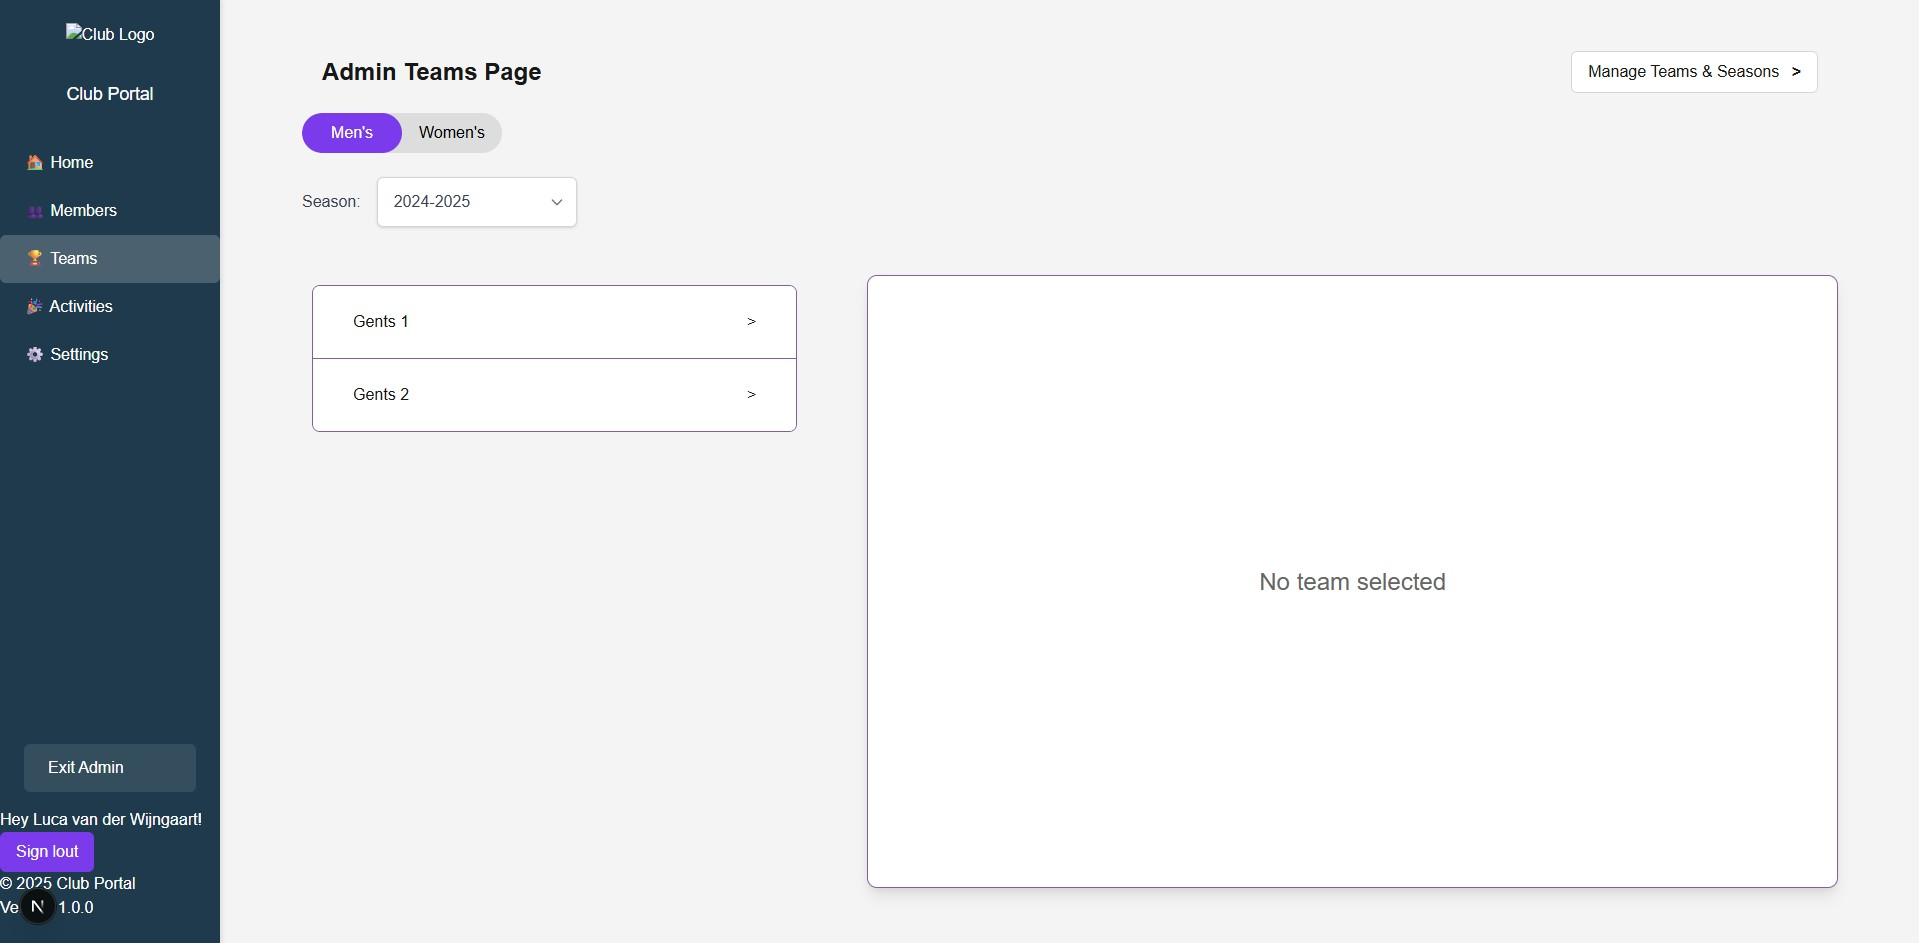
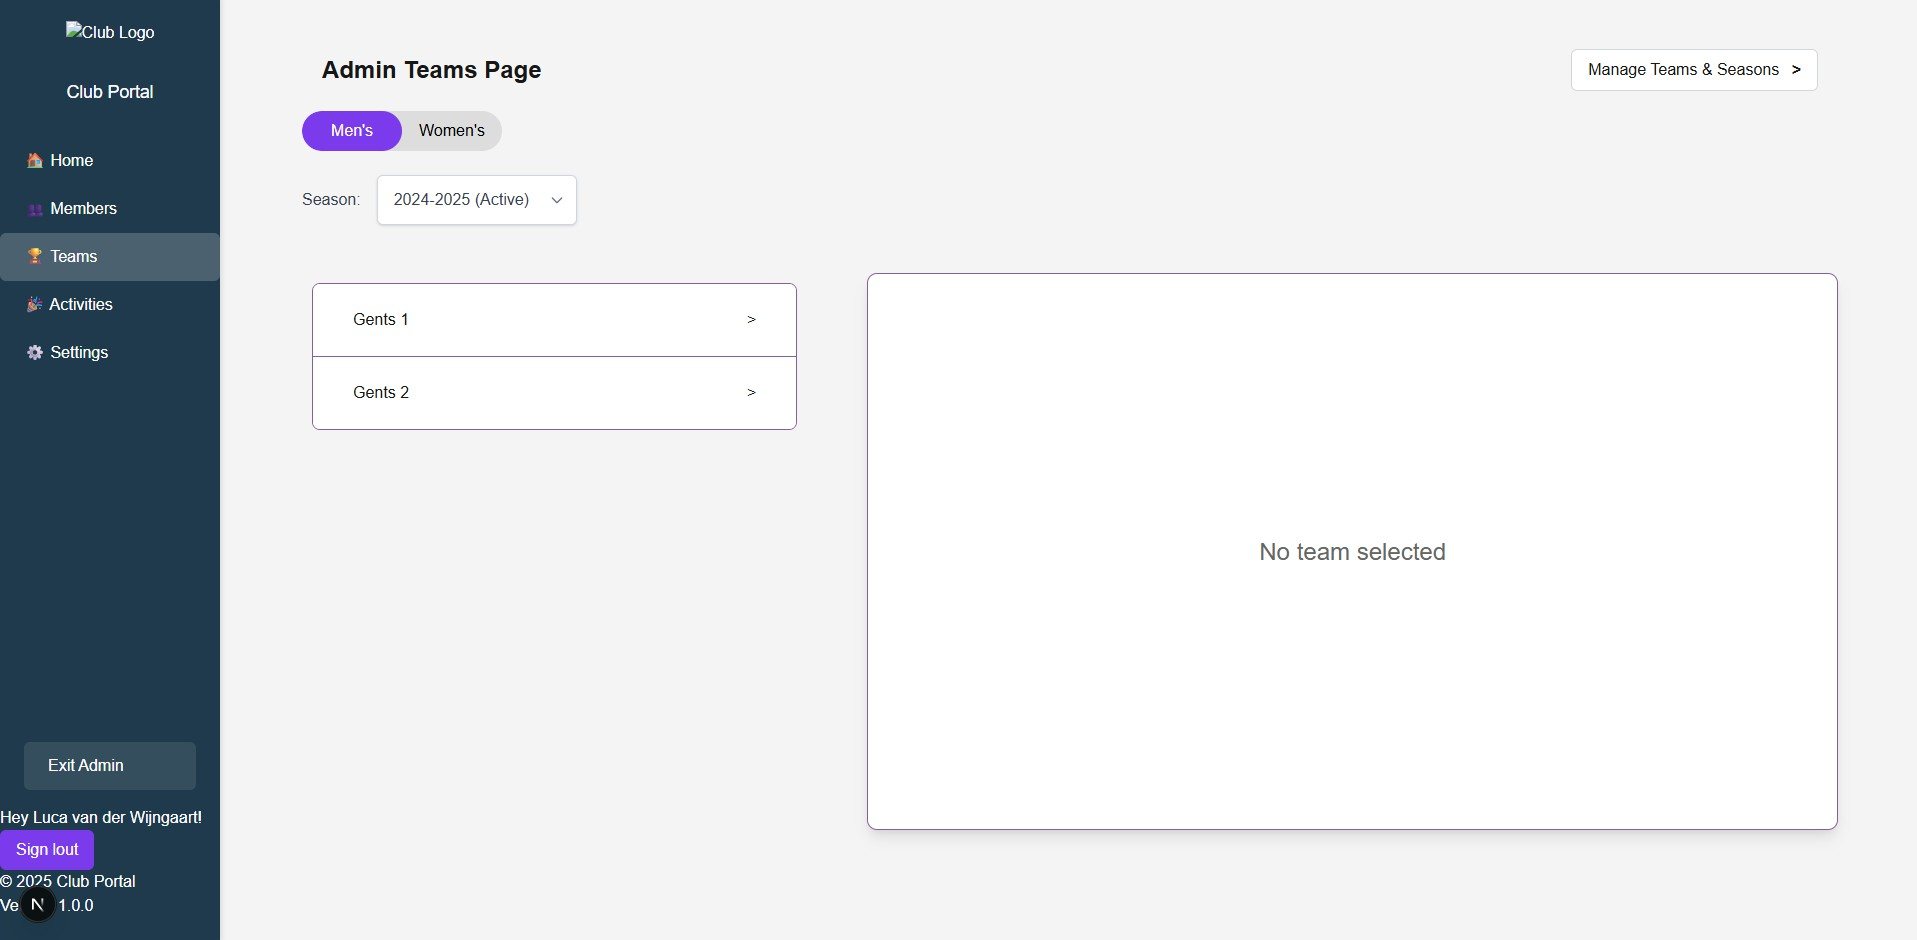
Add season dropdown functionality to admin teams page
Also some styling and refactoring of admin members and teams pages

diff --git a/src/app/(main)/admin/teams/page.tsx b/src/app/(main)/admin/teams/page.tsx
@@ -11,6 +11,7 @@ import { useEffect, useState } from "react";
 
 import adminStyles from "../admin-styles.module.css"; 
 import styles from './teams.module.css';
+import { SeasonDropdownOption } from "@/types/season";
 
 
 /**
@@ -34,14 +35,51 @@ import styles from './teams.module.css';
 export default function AdminTeamsPage() {
   const tabs: ('mens' | 'womens')[] = ['mens', 'womens'];
   const [activeTab, setActiveTab] = useState<"mens" | "womens">("mens");
-  const [allTeams, setAllTeams] = useState<TeamListItem[]>([]);
   const [loading, setLoading] = useState<boolean>(true);
+
+  const [allSeasons, setAllSeasons] = useState<SeasonDropdownOption[]>([]);
+  const [selectedSeason, setSelectedSeason] = useState<SeasonDropdownOption | null>(null);
+  
+  const [allTeams, setAllTeams] = useState<TeamListItem[]>([]);
+  const [selectedTeamId, setSelectedTeamId] = useState<string | null>(null);
 
   // Fetch teams data from the server when the component mounts
   useEffect(() => {
-    async function fetchTeams() {
+    async function fetchSeasons() {
       try {
-        const response = await fetch('/api/teams');
+        const response = await fetch('/api/seasons');
+
+        if (!response.ok) {
+          throw new Error(`HTTP error! status: ${response.status}`);
+        }
+
+        const data = await response.json();
+        setAllSeasons(data || []);
+
+        const activeSeason = data.find((season: SeasonDropdownOption) => season.active);
+        if (activeSeason) {
+          setSelectedSeason(activeSeason);
+        } else if (data.length > 0) {
+          setSelectedSeason(data[0]); // Fallback to the first season if no active one is found
+        }
+      } catch(error) {
+        console.error("Failed to fetch seasons:", error);
+        // Handle error appropriately, e.g., show a notification
+      } finally {
+        setLoading(false); // If you had a loading state
+      }
+    }
+    fetchSeasons();
+  }, []);
+
+  // Fetch teams when the selected season changes
+  useEffect(() => {
+    async function fetchTeams() {
+      if (!selectedSeason) return;
+      
+      setLoading(true); // Set loading state while fetching teams
+      try {
+        const response = await fetch('/api/teams?seasonId=' + (selectedSeason.id));
 
         // Check if the response is ok (status in the range 200-299)
         if (!response.ok) {
@@ -58,10 +96,11 @@ export default function AdminTeamsPage() {
         setLoading(false); // If you had a loading state
       }
     }
-
+    
     fetchTeams();
-  }, []);
+  }, [selectedSeason]);
 
+  // This constant is filtered based on the active tab, and changes when the active tab is changed.
   const currentTeams = allTeams.filter(team => {
     if (activeTab === "mens") {
       return team.teamCategory === "Gents";
@@ -70,9 +109,7 @@ export default function AdminTeamsPage() {
     }
   });
 
-  const [selectedTeamId, setSelectedTeamId] = useState<string | null>(null);
-
-
+  // This function is called when the category tab is changed. It is passed to the TeamsTabBar component.
   function handleTabChange(tab: "mens" | "womens") {
     setActiveTab(tab);
     setSelectedTeamId(null); // Reset selected team when tab changes
@@ -96,34 +133,44 @@ export default function AdminTeamsPage() {
       <TeamsTabBar tabs={tabs} activeTab={activeTab} setActiveTab={handleTabChange} />
       
       {/* Season selector */}
-      <SeasonSelector seasons={[{id: "0", name: "2024-2025", active: true}, {id: "1", name: "2023-2024", active: false} ]} onSeasonSelect={() => {}} />
+      <SeasonSelector
+        seasons={allSeasons}
+        selectedSeason={selectedSeason}
+        onSeasonSelect={(season) => {
+          setSelectedSeason(season);
+          setSelectedTeamId(null);
+        }}
+      />
 
-        <div className={`${styles.contentContainer}`}>
+      {/* Content Container */}
+      <div className={`${styles.contentContainer}`}>
 
-          {loading ? (
-            <div className="flex items-center justify-center w-full h-full">
-              <p className="text-gray-500">Loading teams...</p>
-            </div>
-          ) : (
-            <>
-              {currentTeams.length === 0 ? (
-                <div className={`${styles.teamListContainer} items-center mt-30`}>
-                  <p className="text-gray-500">No teams found for the selected category and season.</p>
-                </div>
-              ) : (
-                <div className={`${styles.teamListContainer}`}>
-                  {/* List component */}
-                  <AdminTeamsList teams={currentTeams} selectedTeamId={selectedTeamId} onTeamSelect={setSelectedTeamId}/>
-                </div>
-              )}
-              <div className={`${styles.teamDetailsContainer}`}>
-                {/* Team-Detail page that is only displayed when teamToView is set */}
-                <TeamDetailsPage teamId={selectedTeamId} onClose={() => {setSelectedTeamId(null)}}/>
-              </div>
-            </>
-          )}
-
+        {loading ? (
+          // Loading state
+          <div className={`${styles.loadingContainer}`}>
+            Loading teams...
           </div>
+        ) : (
+          <>
+            {currentTeams.length === 0 ? (
+              // No teams found message
+              <div className={`${styles.teamListContainer} items-center justify-center`}>
+                <p className="text-gray-500 text-center">No teams found for the selected category and season.</p>
+              </div>
+            ) : (
+              // List component 
+              <div className={`${styles.teamListContainer}`}>
+                <AdminTeamsList teams={currentTeams} selectedTeamId={selectedTeamId} onTeamSelect={setSelectedTeamId}/>
+              </div>
+            )}
+            <div className={`${styles.teamDetailsContainer}`}>
+              {/* Team-Detail page that is only displayed when teamToView is set */}
+              <TeamDetailsPage teamId={selectedTeamId} onClose={() => {setSelectedTeamId(null)}}/>
+            </div>
+          </>
+        )}
+
+      </div>
     </div>
   );
 }

diff --git a/src/features/teams/admin/components/season-selector.tsx b/src/features/teams/admin/components/season-selector.tsx
@@ -1,13 +1,16 @@
 import { SeasonDropdownOption } from "@/types/season";
+import { on } from "events";
 
 
 interface SeasonSelectorProps {
   seasons: Array<SeasonDropdownOption>;
-  onSeasonSelect: (seasonId: string) => void;
+  selectedSeason: SeasonDropdownOption | null;
+  onSeasonSelect: (season: SeasonDropdownOption) => void;
 }
 
-export default function SeasonSelector({ seasons, onSeasonSelect }: SeasonSelectorProps) {
+export default function SeasonSelector({ seasons, selectedSeason, onSeasonSelect }: SeasonSelectorProps) {
 
+  // If no seasons are provided, show a message indicating no seasons are available
   if (!seasons || seasons.length === 0) {
     return (
       <div className="flex items-center gap-4 my-6">
@@ -19,6 +22,15 @@ export default function SeasonSelector({ seasons, onSeasonSelect }: SeasonSelect
     );
   }
 
+  // Handle change in season dropdown
+  const handleSeasonChange = (event: React.ChangeEvent<HTMLSelectElement>) => {
+    const selectedId = event.target.value;
+    const selected = seasons.find(season => season.id === selectedId);
+    if (selected) {
+      onSeasonSelect(selected);
+    }
+  };
+
   return (
     <div className="flex items-center gap-4 my-6 ">
       <label htmlFor="season-select" className="font-medium text-gray-700 whitespace-nowrap">
@@ -28,10 +40,23 @@ export default function SeasonSelector({ seasons, onSeasonSelect }: SeasonSelect
         <select 
           id="season-select" 
           className="w-full px-4 py-3 pr-10 text-gray-700 bg-white border border-gray-300 rounded-md shadow-sm appearance-none hover:border-gray-400 focus:outline-none focus:ring-2 focus:ring-blue-500 focus:border-blue-500 cursor-pointer"
+          defaultValue={selectedSeason ? selectedSeason.id : ""}
+          onChange={handleSeasonChange}
         >
+          {/* A placeholder for if no Season is set */}
+          {!selectedSeason && (
+            <option value="" disabled>
+              Select a season
+            </option>
+          )}
+
+          {/*  */}
           {seasons.map((season) => (
-            <option key={season.id} value={season.id}>
-              {season.name}
+            <option 
+              key={season.id} 
+              value={season.id} 
+            >
+              {season.name} {season.active ? "(Active)" : ""}
             </option>
           ))}
         </select>

diff --git a/src/app/(main)/api/teams/route.ts b/src/app/(main)/api/teams/route.ts
@@ -5,14 +5,18 @@ import { TeamListItem } from "@/types/team";
 
 
 export async function GET(_req: Request) {
+  const { searchParams } = new URL(_req.url);
+  const seasonId = searchParams.get("seasonId");
+
   try {
-    // Fetch all teams from the database
+    // Conditional where clause based on whether seasonId is passed
+    const whereClause = seasonId ? 
+      { seasonId } : 
+      { season: { active: true } }; // If no seasonId is passed, default to active season
+
+    // Fetch query teams from the database
     const teams = await prisma?.teamSeason.findMany({
-      where: {
-        season: {
-          active: true, // Only fetch teams for the current season
-        },
-      },
+      where: whereClause,
       select: {
         id: true, 
         theme: true, 
@@ -30,8 +34,9 @@ export async function GET(_req: Request) {
         }
       } 
     });
+    
 
-    // Map the results to a simpler format
+    // Map the results to a simpler format according to a type definition
     const formattedTeams: TeamListItem[] = teams?.map((team) => {
       return {
         teamSeasonId: team.id, 

diff --git a/src/app/(main)/api/seasons/route.ts b/src/app/(main)/api/seasons/route.ts
@@ -1,0 +1,38 @@
+import { SeasonDropdownOption } from "@/types/season";
+import { NextResponse } from "next/server";
+
+
+export async function GET(_req: Request) {
+  try {
+    const seasons = await prisma?.season.findMany({
+      select: {
+        id: true, 
+        name: true, 
+        active: true,
+      },
+      orderBy: {
+        name: 'desc',
+      },
+    });
+
+    if (!seasons) {
+      return NextResponse.json({
+        error: "No seasons found"
+      }, { status: 404 });
+    }
+
+    const formattedSeasons: SeasonDropdownOption[] = seasons.map(season => ({
+      id: season.id,
+      name: season.name,
+      active: season.active,
+    }));
+
+    return NextResponse.json(formattedSeasons);
+  } catch (error) {
+    console.error("Error fetching seasons:", error);
+    return NextResponse.json(
+      { error: "Internal server error" }, 
+      { status: 500 }
+    );
+  } 
+}

diff --git a/src/app/(main)/admin/members/page.tsx b/src/app/(main)/admin/members/page.tsx
@@ -12,6 +12,9 @@ import MemberDetail from "@/features/members/admin/components/details-page/membe
 
 import { deleteMember, getMembers } from "@/features/members/services/membersService";
 
+import adminStyles from "../admin-styles.module.css";
+import styles from './members.module.css'; 
+
 /**
  * AdminMembersPage component
  * 
@@ -98,8 +101,8 @@ export default function AdminMembersPage() {
 
 
   return (
-    <div className="admin-page members-page">
-      <div className="admin-header">
+    <div className={`${adminStyles.adminPage}`}>
+      <div className={`${adminStyles.adminHeader}`}>
         {/* Tab component */}
         <MembersToolbar 
           search="test"

diff --git a/src/features/members/admin/components/members-toolbar.tsx b/src/features/members/admin/components/members-toolbar.tsx
@@ -38,7 +38,7 @@ export default function MembersToolbar({
   return (
     <div className="toolbar">
       <div className="left">
-        <h2 className="heading">Members List</h2>
+        <h1>Members List</h1>
         <button className="addMember" onClick={() => onAdd()}>Add Member</button>
         <button className="importMembers" onClick={() => onImport()}>Import Members</button>
         <button className="exportMembers" onClick={() => onExport()}>Export Members (Excel)</button>

diff --git a/src/app/(main)/admin/page.tsx b/src/app/(main)/admin/page.tsx
@@ -1,5 +1,5 @@
 
-import "./styles.css";
+import adminStyles from './admin-styles.module.css';
 
 /**
  * AdminPage component
@@ -16,8 +16,8 @@ export default function AdminPage() {
 
 
   return (
-    <div className="admin-page home-page">
-      <div className="admin-header">
+    <div className={`${adminStyles.adminPage} home-page`}>
+      <div className={`${adminStyles.adminHeader}`}>
         <h1>Admin Dashboard</h1> 
       </div>
     </div>

diff --git a/src/app/(main)/admin/teams/teams.module.css b/src/app/(main)/admin/teams/teams.module.css
@@ -20,7 +20,18 @@
   flex: 1;
   justify-content: start;
   gap: 5rem;
-  margin: 1.5rem 0;
+  margin: 1.5rem 0 5rem 0;
+}
+
+.loadingContainer {
+  display: flex;
+  justify-content: center;
+  align-items: flex-start;
+  width: 100%;
+  height: auto;
+  padding-top: 3rem;
+  color: var(--color-gray-500);
+  font-size: 1.5rem;
 }
 
 .teamListContainer {

diff --git a/src/features/teams/admin/styles/teams-list.module.css b/src/features/teams/admin/styles/teams-list.module.css
@@ -26,5 +26,6 @@
 }
 
 .selectedTeam {
-  background-color: #dbcde4bb; 
+  /* background-color: #dbcde4bb;  */
+  background-color: #84609922;
 }
